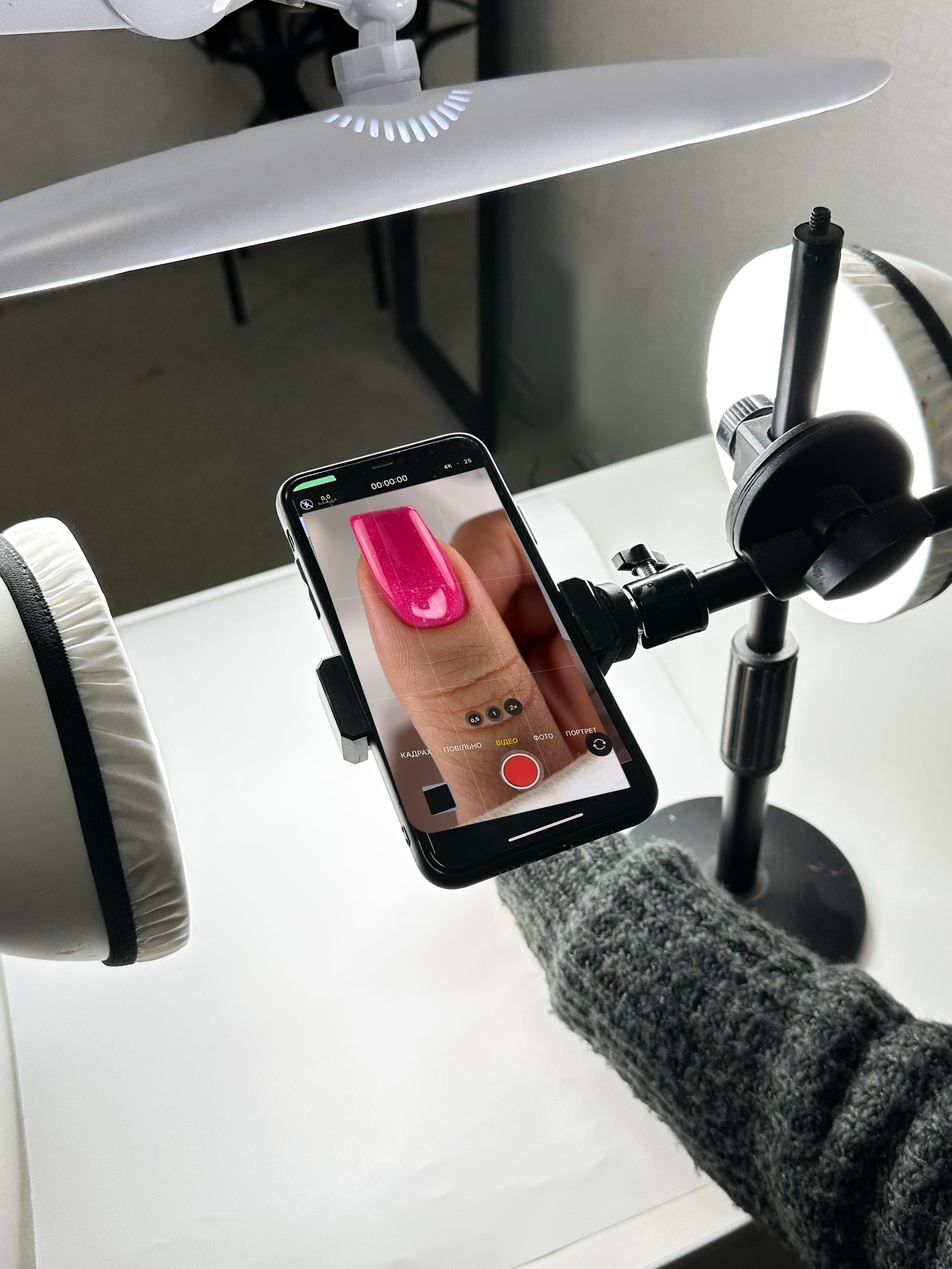
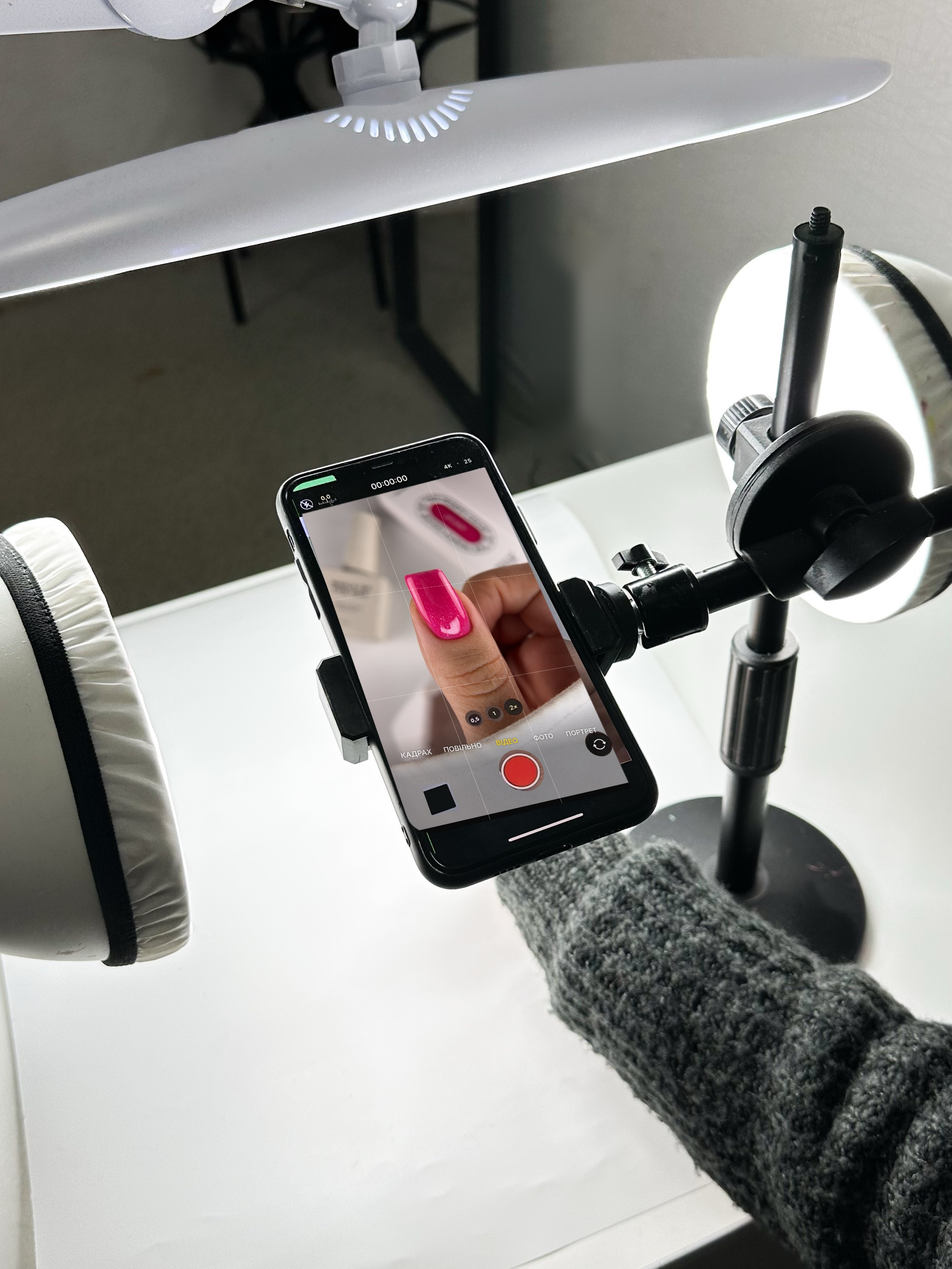
Apps cover: wider nail shot with bottles on screen
Claude-Session: https://claude.ai/code/session_0191xVL2hi5vHUvM1ix6pauC

Changed region(s): [[0.3416, 0.3727, 0.6832, 0.6832], [0.3106, 0.4037, 0.3416, 0.4348]]

diff --git a/karusel_dodatky/build_screen.py b/karusel_dodatky/build_screen.py
@@ -10,6 +10,9 @@ nail=Image.open(f'{U}/90c1111e-image.png').convert('RGB').crop(tuple(CROP))
 top=60; ph=FH-top
 s=max(FW/nail.width,ph/nail.height); n=nail.resize((round(nail.width*s),round(nail.height*s)),Image.LANCZOS)
 ox=(n.width-FW)//2; n=n.crop((ox,0,ox+FW,ph)); new.paste(n,(0,top))
+gm=Image.new('L',(1,FH),0)
+for yy in range(FH): gm.putpixel((0,yy),int(110*max(0,min(1,(yy-1380)/180))))
+new=Image.composite(Image.new('RGB',(FW,FH),(20,20,20)),new,gm.resize((FW,FH)))
 d=ImageDraw.Draw(new,'RGBA')
 for x in (310,620): d.line([(x,0),(x,FH)],fill=(255,255,255,90),width=2)
 for y in (700,1200): d.line([(0,y),(FW,y)],fill=(255,255,255,90),width=2)
